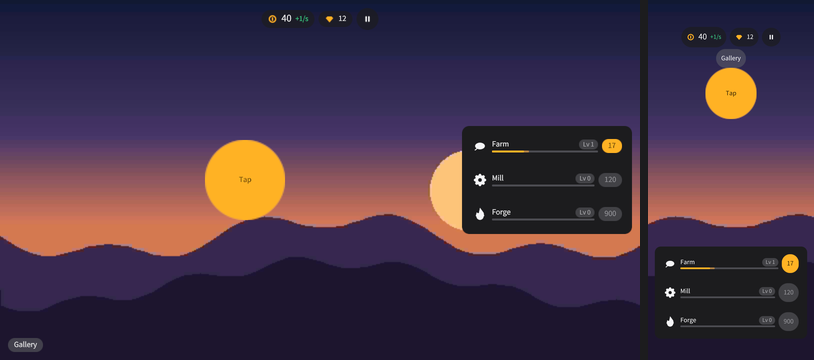
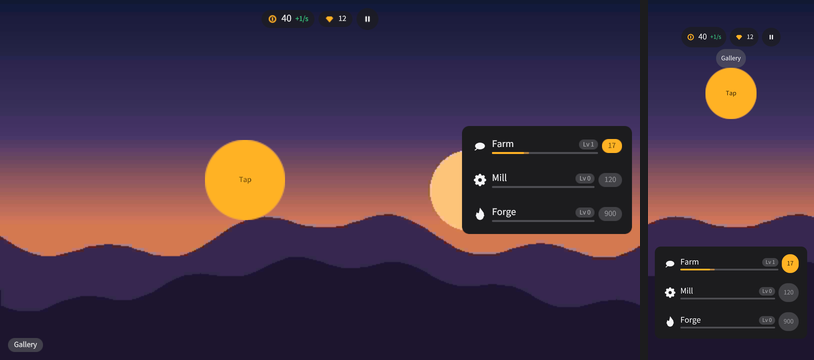
The kit's small type raised to og polish's 9 px: the shop cards' item names from caption (13 px) to base (16 px), the balance's unit from meta to base with its amount, and the idle HUD's generator names from body to lg (18 px); og polish's text size on the token frames had them at 7 to 8 px of ink a

diff --git a/packages/engine/src/ui-kit/store.ts b/packages/engine/src/ui-kit/store.ts
@@ -39,15 +39,15 @@ export function shopScreen(id: string, desc: Api.ShopDesc = {}): Api.ShopResult 
       }
       capsule("Balance", () => {
         if (desc.currencyIcon) iconOr("Icon", desc.currencyIcon, 18, token("accent"));
-        kit.counter("Amount", balance, { font: "mono" });
-        kit.label("Unit", desc.currency ?? "coins", { step: "meta", color: token("fgMuted"), nowrap: true });
+        kit.counter("Amount", balance, { font: "mono", step: "base" });
+        kit.label("Unit", desc.currency ?? "coins", { step: "base", color: token("fgMuted"), nowrap: true });
       });
     });
     const body = (): void => {
       const g = kit.grid("Items", { count: items.length, cellWidth: phone ? 96 : 112, cellHeight: phone ? 112 : 124, height: fit(0, phone ? 260 : 320), width: grow(), selected: sel }, (i) => {
         const it = items[i]!;
         picture("Picture", it.icon, it.name ?? "", 36);
-        kit.label("Name", it.name ?? "", { step: "caption", nowrap: true });
+        kit.label("Name", it.name ?? "", { step: "base", nowrap: true });
         if (it.owned) kit.badge("Owned", "Owned", "success");
         else kit.label("Price", fmt(it.price ?? 0), { step: "meta", font: "mono", color: token(balance >= (it.price ?? 0) ? "accentInk" : "fgSubtle"), nowrap: true });
       });

diff --git a/packages/engine/src/ui-kit/huds.ts b/packages/engine/src/ui-kit/huds.ts
@@ -195,7 +195,7 @@ export function idleHud(id: string, desc: Api.IdleHudDesc = {}): Api.HudResult {
         if (g.icon) iconOr("Icon", g.icon, 32, token("fg"));
         kit.column("Text", { width: grow(), gap: t.xxs }, () => {
           kit.row("Head", { gap: t.sm, cross: "center", width: grow() }, () => {
-            kit.label("Name", g.name ?? g.id ?? "", { nowrap: true, width: grow() });
+            kit.label("Name", g.name ?? g.id ?? "", { step: "lg", nowrap: true, width: grow() });
             kit.badge("Level", `Lv ${g.level ?? 0}`, "neutral");
           });
           kit.meter("Cycle", g.progress ?? 0, 1, { kind: "accent", height: 4, width: grow() });

diff --git a/tests/evidence/P2/ui/rerecord.py b/tests/evidence/P2/ui/rerecord.py
@@ -1,0 +1,34 @@
+#!/usr/bin/env python3
+"""Re-record reference frames with their evidence.
+
+    python3 tests/evidence/P2/ui/rerecord.py <tag> <new.png> <reference.png> [...pairs]
+
+For each pair: writes tests/evidence/P2/ui/rerecord/<tag>-<reference name>
+as the old reference (left) beside the new frame (right), each scaled to at
+most 960 px wide, then copies the new frame over the reference. Prints the
+outlier share and RMSE between them under og-tests' rule (32/255 per
+channel), the numbers the commit message quotes."""
+import os, shutil, sys
+from PIL import Image
+import numpy as np
+
+here = os.path.dirname(os.path.abspath(__file__))
+tag, pairs = sys.argv[1], sys.argv[2:]
+for new, ref in zip(pairs[::2], pairs[1::2]):
+    a = Image.open(ref).convert("RGB")
+    b = Image.open(new).convert("RGB")
+    if a.size == b.size:
+        d = np.abs(np.asarray(a, np.int16) - np.asarray(b, np.int16))
+        out = (d.max(axis=2) > 32).mean() * 100
+        rmse = float(np.sqrt(((d / 255.0) ** 2).mean()))
+        print(f"{os.path.basename(ref)}: {out:.3f} % outliers, RMSE {rmse:.5f}")
+    else:
+        print(f"{os.path.basename(ref)}: size {a.size} -> {b.size}")
+    k = min(1.0, 960 / max(a.width, b.width))
+    a2 = a.resize((max(1, int(a.width * k)), max(1, int(a.height * k))), Image.LANCZOS)
+    b2 = b.resize((max(1, int(b.width * k)), max(1, int(b.height * k))), Image.LANCZOS)
+    pair = Image.new("RGB", (a2.width + b2.width + 8, max(a2.height, b2.height)), (255, 0, 255))
+    pair.paste(a2, (0, 0))
+    pair.paste(b2, (a2.width + 8, 0))
+    pair.save(os.path.join(here, "rerecord", f"{tag}-{os.path.basename(ref)}"), optimize=True)
+    shutil.copyfile(new, ref)

diff --git a/tests/evidence/P2/ui/break-and-restore.md b/tests/evidence/P2/ui/break-and-restore.md
@@ -11,3 +11,7 @@ was restored.
 | `crates/og-ui/tests/skin.rs` `the_hover_lift_and_the_press_move_on_springs` (row 16) | `button_motion`'s spring step replaced by the target (`a.a = target`: the lift jumps) | `moving over several ticks, not at once`: every top edge 45.68 from the first tick | passes; `og test templates/ui-kit` passes all 25 suites with the six packs' desktop and phone sheets unchanged (each hovered or pressed control in them is captured at rest, where the spring ends exactly where the eased curve did) |
 | `templates/archetypes/runner/tests/flow.og.ts`, the held press's sound (row 46) | `ask(world, Sound.Hold)` removed from Director | `but it is answered by the hold tick (sfx-16: Sfx, og.AudioSource, og.Transform)`: no og.AudioPlayback | passes; the runner's 8 suites pass |
 | `templates/ui-kit/tests/refuse.og.ts` (row 45) | `kit.shake({ sound: true })` removed from the shop's refusing Buy (`packages/engine/src/ui-kit/store.ts`) | `the button shook sideways after the press (up to 0.00 px …)` and `the error sound plays on the ui bus (voices [])` | passes; the kit's 26 suites pass |
+
+Rows 42 (type sizes) changed no test: `og polish` is its measure (the
+reports in `polish/`), and the 16 kit references it moved were re-recorded
+(`rerecord/row42-*.png`, old left, new right).
